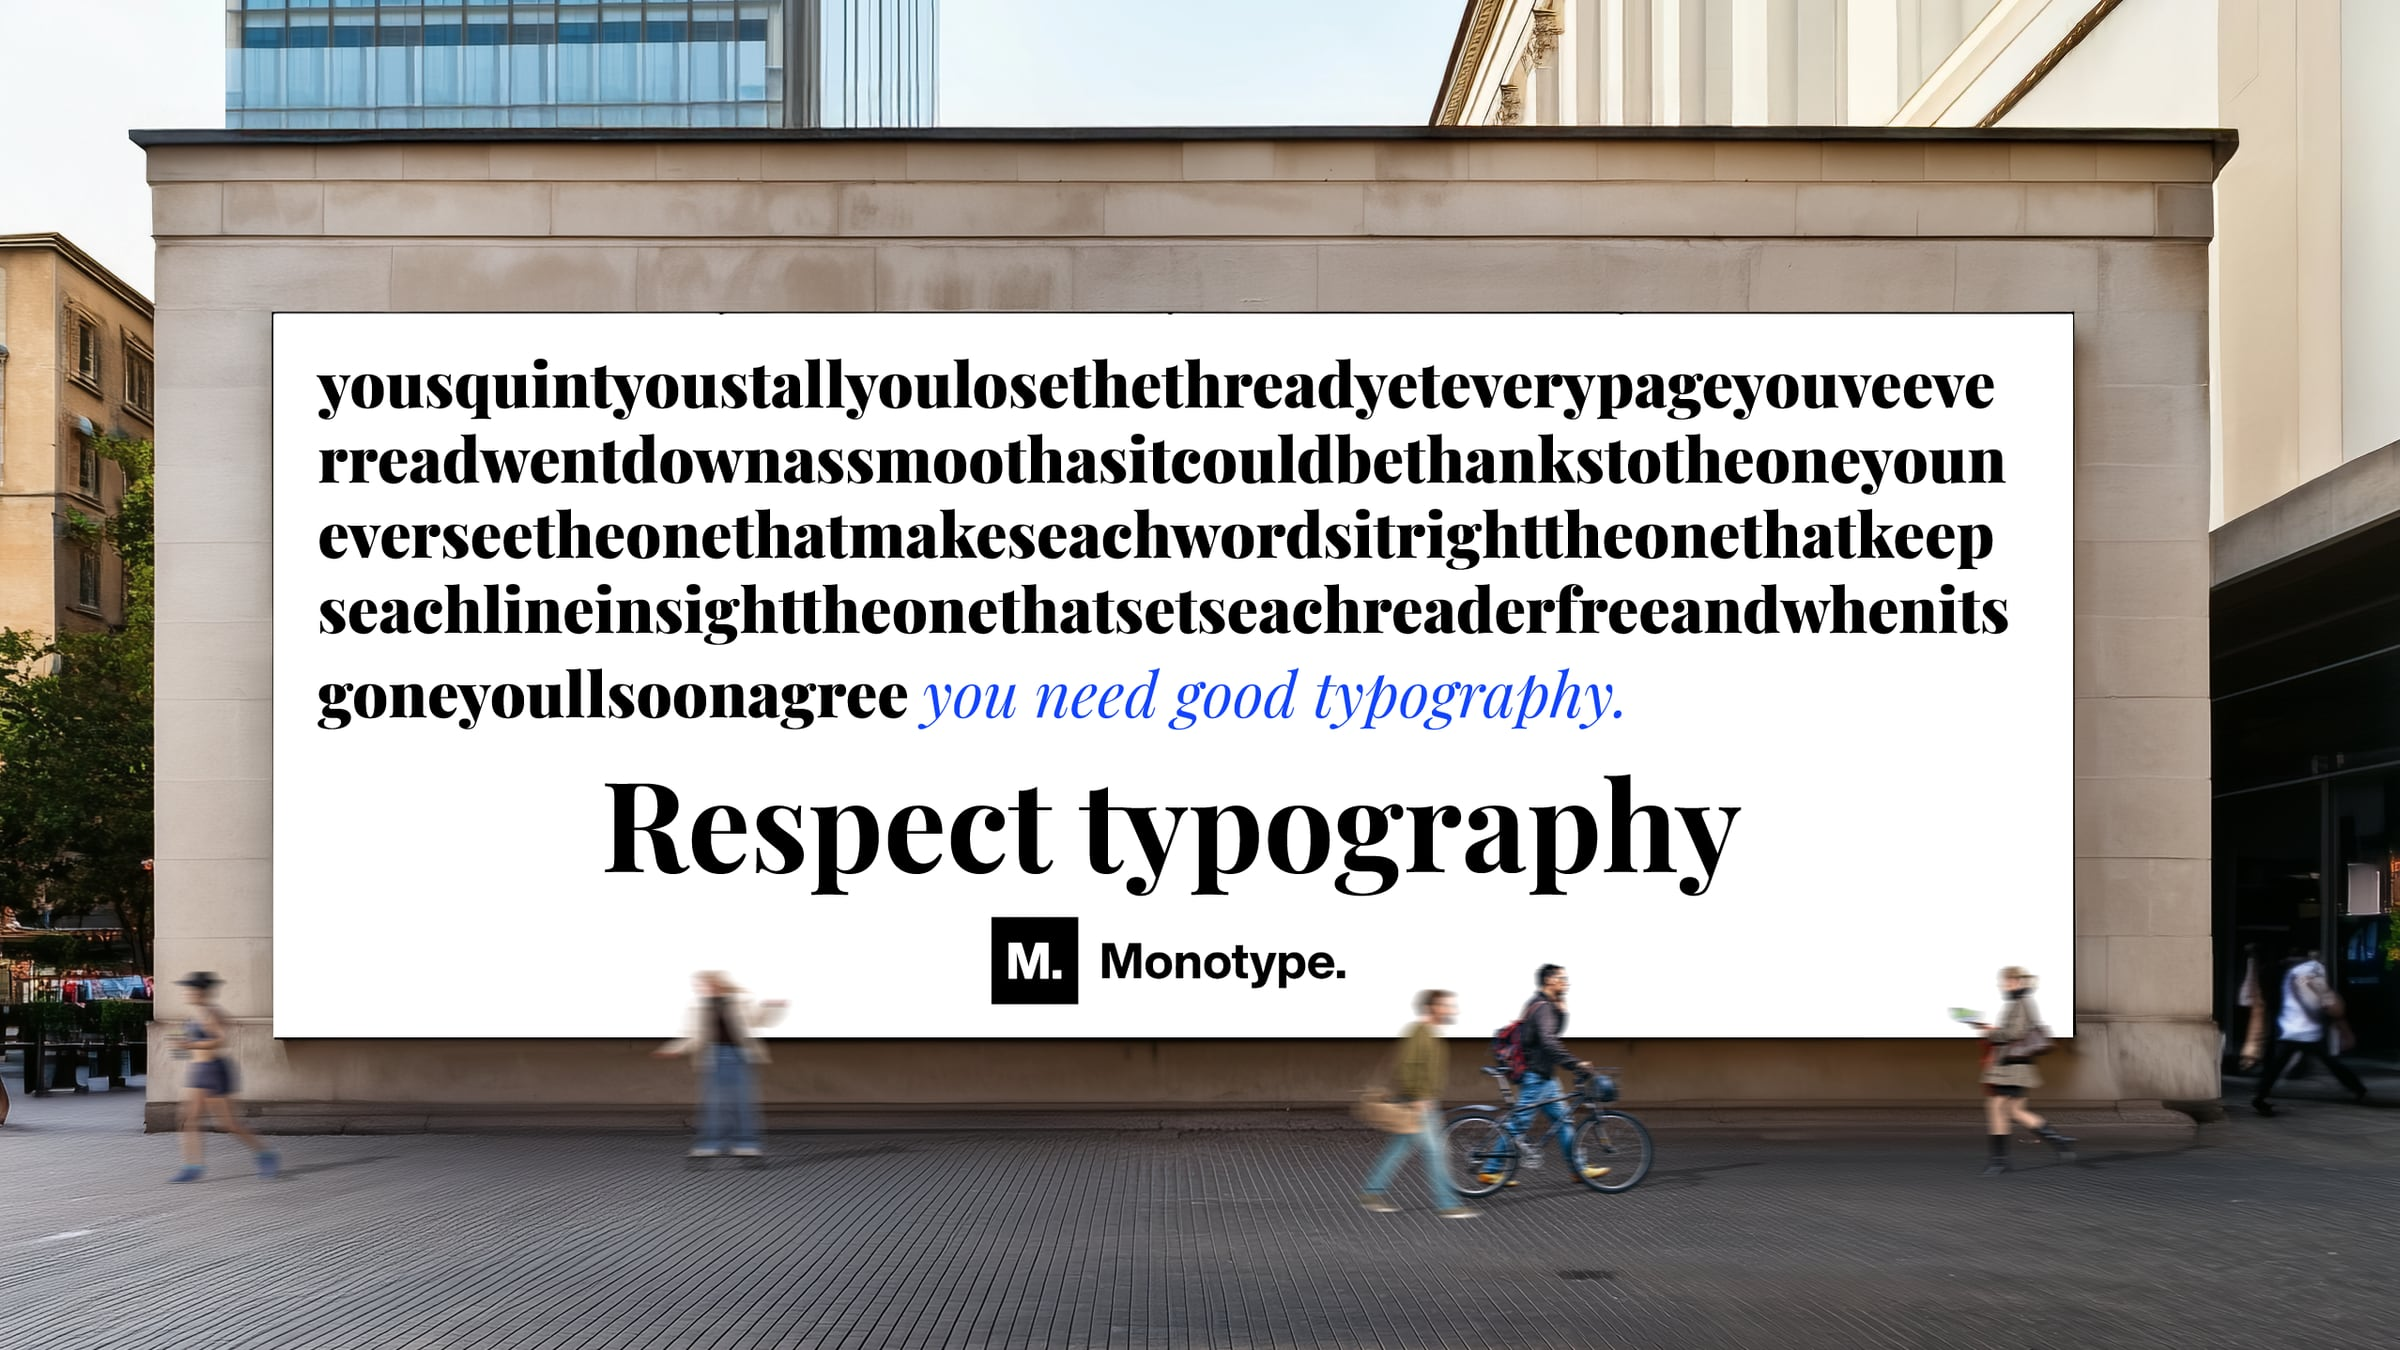
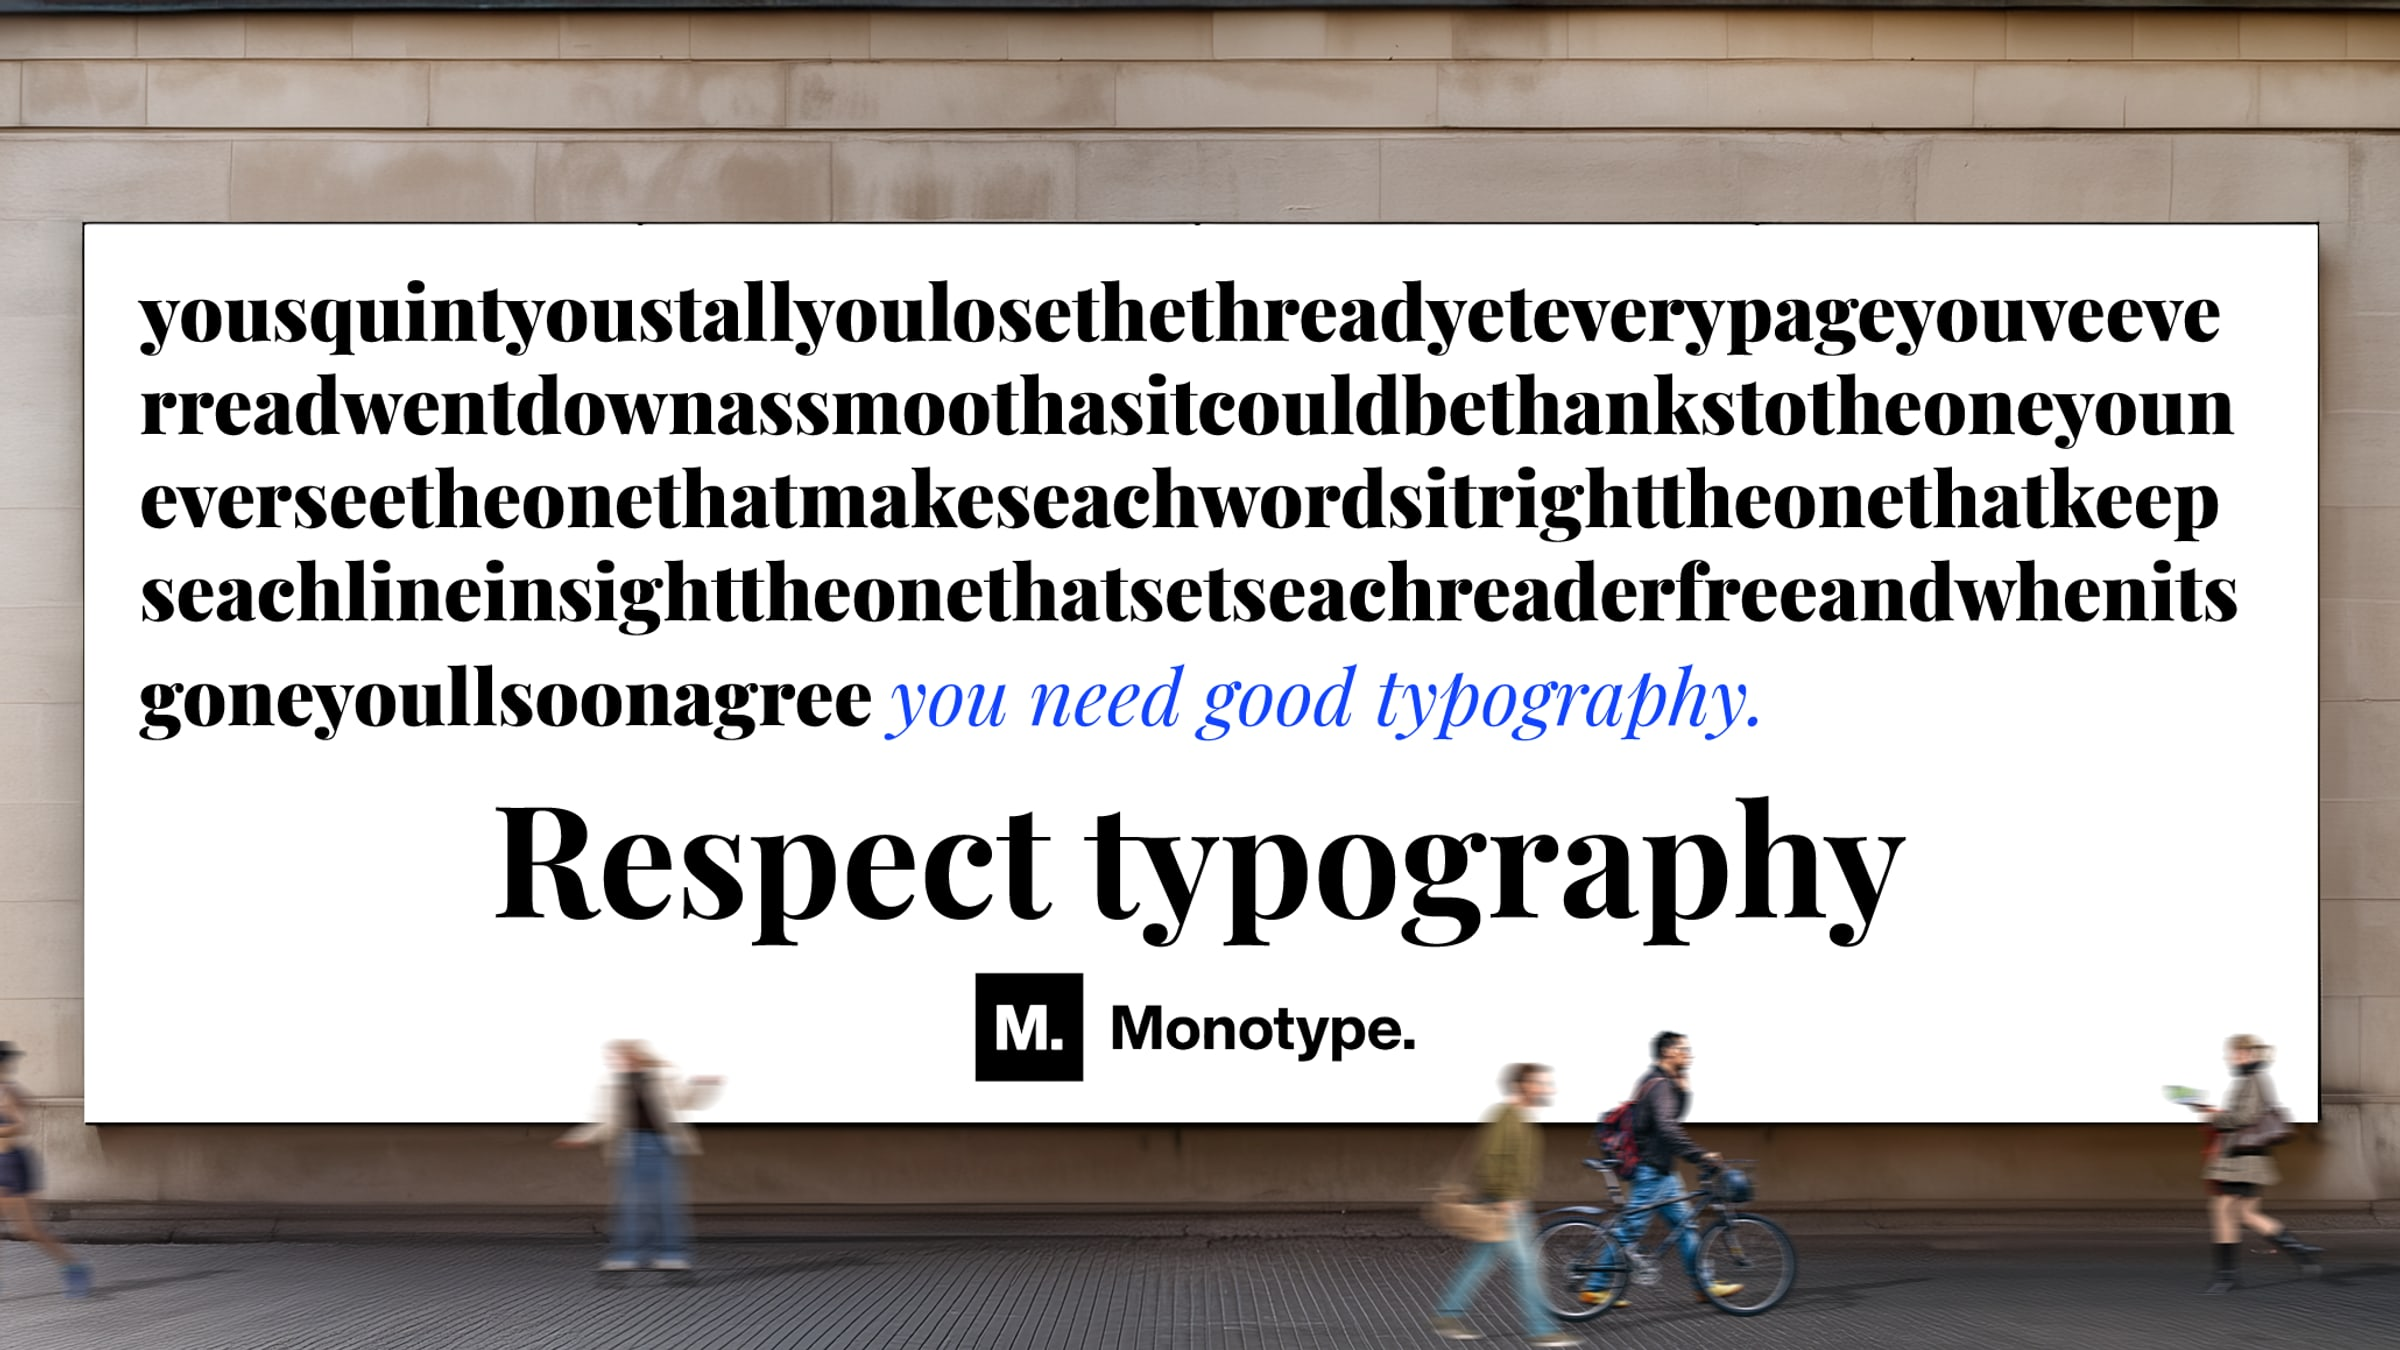
Tattoos: split Challenge and Insight; Ode hero cropped tighter on the billboard

diff --git a/content/projects/tattoos-dont-age-well.md b/content/projects/tattoos-dont-age-well.md
@@ -19,7 +19,11 @@ images:
 
 ## Challenge
 
-Removery wanted to get young adults to consider tattoo removal, at a time when getting tattooed is growing and seen as cool. Young people get tattoos for who they are now, and regret them later in life. Many believe the tattoos they get now won’t align with their views later in life. Nearly a quarter openly say they think their tattoos won’t age well.
+Removery wanted to get young adults to consider tattoo removal, at a time when getting tattooed is growing and seen as cool.
+
+## Insight
+
+Young people get tattoos for who they are now, and regret them later in life. Many believe the tattoos they get now won’t align with their views later in life. Nearly a quarter openly say they think their tattoos won’t age well.
 
 ## Idea
 
